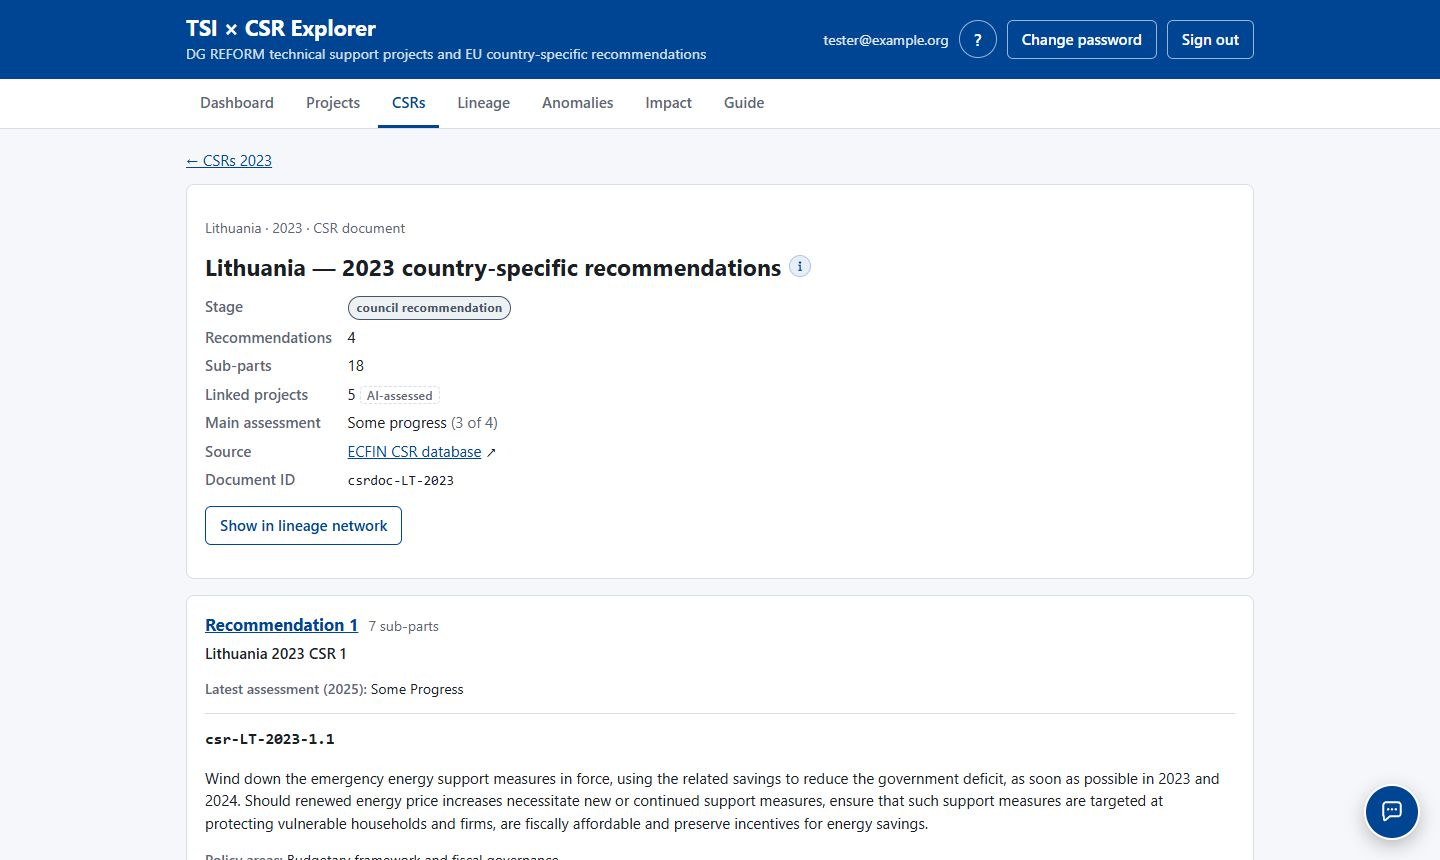
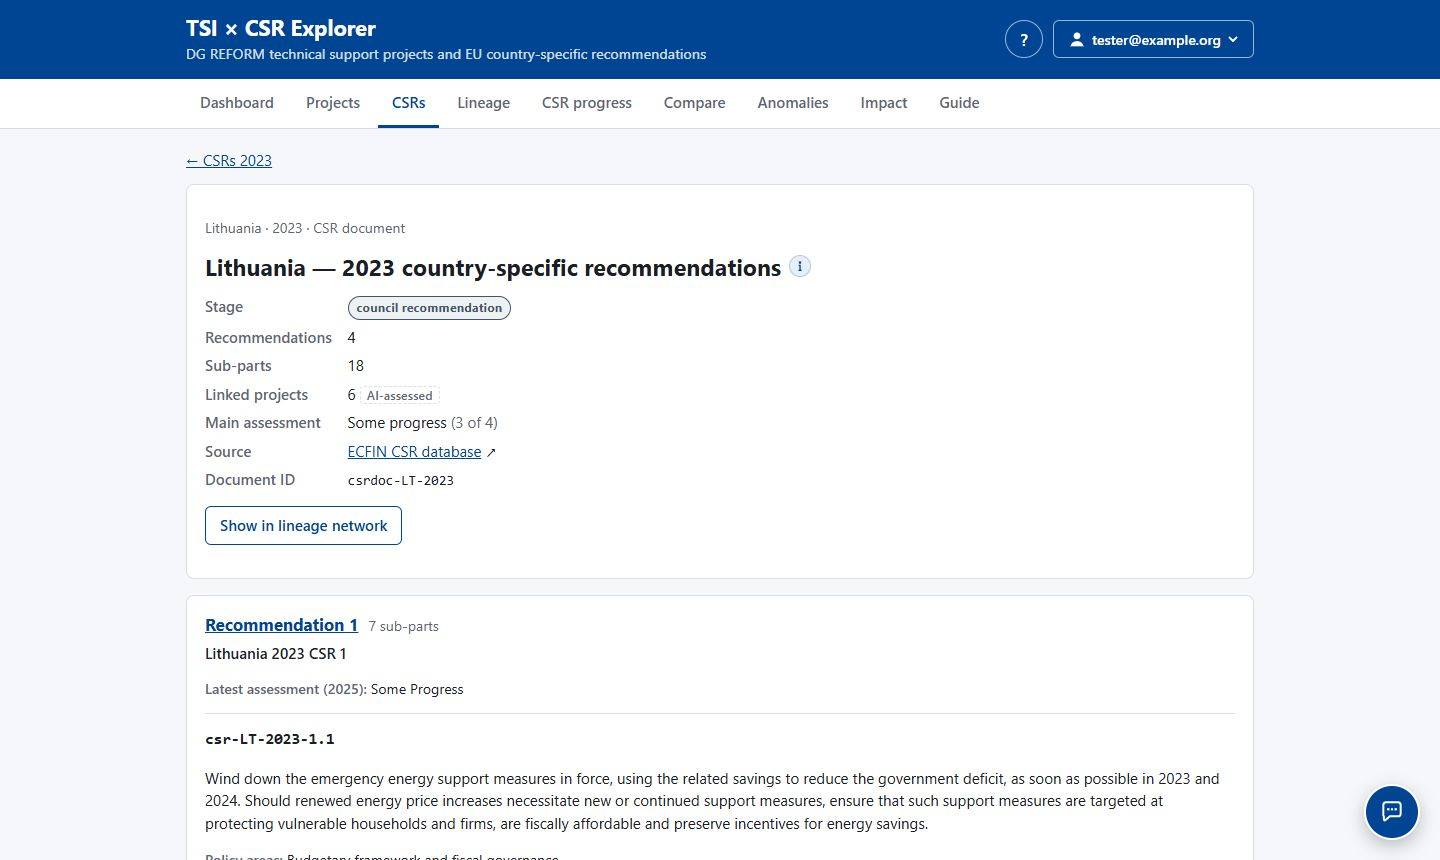
docs(web): captures du guide du 23/11/2026 (donnees du jour) et trois etapes (termes associes, considerants, country reports) ; extraits sans mots grammaticaux surlignes, badge AI en majuscules

diff --git a/web/app.js b/web/app.js
@@ -972,14 +972,20 @@ function escapeRegExp(s) {
   return s.replace(/[.*+?^${}()|[\]\\]/g, "\\$&");
 }
 
+const EXCERPT_STOP = new Set(["with", "from", "into", "that", "this", "their", "between", "within", "across", "through",
+  "under", "over", "about", "other", "more", "less", "also"]);
+
 /** Escaped excerpt of a recital around the first searched word, the searched words marked. */
 function recitalExcerpt(text, words) {
   const t = String(text || "");
-  const tokens = [...new Set(words.flatMap((w) => [w.trim(), ...w.split(/\s+/)]).map((w) => w.trim()).filter((w) => w.length >= 3))]
-    .sort((a, b) => b.length - a.length);
+  const phrases = [...new Set(words.map((w) => w.trim()).filter((w) => w.length >= 3))];
+  // Single words of the phrases, without short or grammatical words ("and", "of the" would be marked everywhere).
+  const parts = phrases.flatMap((w) => w.split(/\s+/)).filter((w) => w.length >= 4 && !EXCERPT_STOP.has(w.toLowerCase()));
+  const tokens = [...new Set([...phrases, ...parts])].sort((a, b) => b.length - a.length);
   const lower = t.toLowerCase();
-  const hits = tokens.map((w) => lower.indexOf(w.toLowerCase())).filter((i) => i >= 0);
-  const at = hits.length ? Math.min(...hits) : 0;
+  const first = (list) => { const hits = list.map((w) => lower.indexOf(w.toLowerCase())).filter((i) => i >= 0); return hits.length ? Math.min(...hits) : -1; };
+  const atPhrase = first(phrases);
+  const at = atPhrase >= 0 ? atPhrase : Math.max(0, first(parts)); // a whole searched phrase first, else one of its words
   const start = t.length <= RECITAL_EXCERPT ? 0 : Math.max(0, Math.min(at - 120, t.length - RECITAL_EXCERPT));
   const cut = t.slice(start, start + RECITAL_EXCERPT);
   let html = esc(cut);
@@ -3318,9 +3324,9 @@ const GUIDE = [
 const GUIDE_IDS = GUIDE.map((s) => s.id);
 
 // Illustrated part of the guide (screenshots in web/guide/, relative paths: the site is served under a sub-path).
-// Screenshots taken on 23 Oct 2026 with the real data of that day; the figures quoted in the steps are read off them.
+// Screenshots taken on 23 Nov 2026 with the real data of that day; the figures quoted in the steps are read off them.
 const GUIDE_PROJECT = "technical-support-transforming-existing-fully-state-administered-funded-pension-scheme-lithuania";
-const GUIDE_SHOT_DATE = "23 October 2026";
+const GUIDE_SHOT_DATE = "23 November 2026";
 const GUIDE_ESSENTIALS = [
   { icon: "▦", title: "Tabs", text: "Dashboard, Projects, CSRs, Lineage, CSR progress, Compare, Anomalies, Impact and Guide. The ? button in the header brings you back here; the menu under your e-mail address holds Change password, Sign out (and Admin for administrators)." },
   { icon: "⚲", title: "Filters", text: "Each list has its filters (country, programme, years, text search…). The address of the page keeps them: bookmark or share it." },
@@ -3334,37 +3340,40 @@ const GUIDE_ESSENTIALS = [
 const LT_PROJECT_SEL = `sel=${encodeURIComponent(`project:${GUIDE_PROJECT}`)}`;
 const GUIDE_STEPS = [
   { img: "01-dashboard.jpg", to: "#dashboard", title: "Start from the big picture",
-    alt: "Dashboard: tiles with the totals and the chart of projects by year and programme",
-    text: `The <strong>Dashboard</strong> sums up the whole data set: 2,157 projects (39% with a detail page), 536 deliverables,
-      27 CSR documents per year (294 documents, 1,049 recommendations and 3,363 sub-parts for 2016–2026), 1,339 project–CSR links
-      (28% of projects linked), 5 impact analyses (mean score 4.2/10) and 1,884 anomalies, 262 of them high severity. The first
-      chart splits the projects by year and programme: TSI 1,185, SRSP 890, SRSS 82. Click a bar to open the matching list.` },
+    alt: "Dashboard: what the explorer is for, the four ways in, and the tiles with the totals",
+    text: `The <strong>Dashboard</strong> opens with what the explorer is for, a reminder that it is an internal tool, and four ways
+      in: one country, a theme across countries, CSR implementation, finding projects. The tiles sum up the data set: 2,155
+      projects (39% with a detail page), 536 deliverables, 27 CSR documents per year (294 documents, 1,049 recommendations and
+      3,363 sub-parts for 2016–2026), 1,441 project–CSR links (28% of projects linked), 743 impact analyses (indicative, mean score
+      5.1/10) and 1,879 anomalies, 262 of them high severity. The charts below split the projects by year and programme (TSI 1,183,
+      SRSP 890, SRSS 82); click a bar to open the matching list.` },
   { img: "02-csrs.jpg", to: "#csrs", title: "Browse the CSR documents of a year",
     alt: "CSRs tab: the 27 country documents of 2026 as cards",
     text: `The <strong>CSRs</strong> tab opens on the latest year: 2026, 27 documents, 146 recommendations. They are still
       <em>Commission recommendations</em>: not yet adopted by the Council, not yet assessed, and no project is linked yet (a
       recommendation can only be supported by projects of the following years). Each card gives the number of recommendations,
       the main assessment and the linked projects, with links to the document page and its PDF. Choose an earlier year to see
-      assessments and links.` },
+      assessments and links. The buttons above the cards switch to all recommendations, the 2026 recitals and the 2026 country
+      reports (steps 13 and 14).` },
   { img: "03-document.jpg", to: "#csrdoc/csrdoc-LT-2023", title: "Open a country's CSR document",
     alt: "CSR document page: Lithuania, 2023 country-specific recommendations",
     text: `The <strong>Lithuania — 2023</strong> document is a Council recommendation with 4 recommendations split into 18
-      sub-parts. 5 projects are linked to it (AI-assessed) and its main assessment is <em>Some progress</em> (3 of 4
+      sub-parts. 6 projects are linked to it (AI-assessed) and its main assessment is <em>Some progress</em> (3 of 4
       recommendations). Below, each recommendation lists its sub-parts with their policy areas, assessment and linked projects:
       sub-part 1.6, &ldquo;social protection&rdquo;, is partially supported by the Lithuanian pension project followed in the
       next steps.` },
   { img: "04-lineage-sankey.jpg", to: "#lineage", title: "See where support goes, for all countries",
     alt: "Lineage tab, Sankey view: countries, policy areas, programmes and outcomes of all CSR Recommendations",
-    text: `The <strong>Lineage</strong> tab opens on the <em>Sankey</em>: for the CSRs of 2016–2025, 1,185 CSR
-      Recommendations (391 distinct recommendations, 597 projects, 27 countries, 34% direct) flow from the country of the recommendation to the policy
-      area of the project, its programme and its stated outcome. Croatia comes first with 90 CSR Recommendations, Romania 84, Spain 82, and
-      Lithuania 64; TSI carries 948 CSR Recommendations and 954 lead to results achieved. The CSR years and the link level (all, direct, partial)
+    text: `The <strong>Lineage</strong> tab opens on the <em>Sankey</em>: for the CSRs of 2016–2025, 1,284 CSR
+      Recommendations (439 distinct recommendations, 602 projects, 27 countries, 34% direct) flow from the country of the recommendation to the policy
+      area of the project, its programme and its stated outcome. Croatia comes first with 94 CSR Recommendations, Spain 90, Romania 87, and
+      Lithuania 68; TSI carries 1,040 CSR Recommendations and 977 lead to results achieved. The CSR years and the link level (all, direct, partial)
       filter the Sankey, the Network and the Sunburst alike; click a country to split it by CSR year.` },
   { img: "04-lineage.jpg", to: `#lineage?view=country&country=LT&${LT_PROJECT_SEL}`, title: "Follow one country stage by stage",
     alt: "Lineage By country, Lithuania, with the pension project pinned: its chain from two documents to its outcome is highlighted",
     text: `<em>By country</em> follows the five stages for one country: CSR document → recommendation → initial request (a dashed
-      placeholder until the JIRA export) → project → outcome. Lithuania, 2019–2025: 7 CSR documents, 25 recommendations (10 with
-      at least one project), 35 CSR Recommendations (11 direct) from 44 sub-part links and 23 projects. With the pension
+      placeholder until the JIRA export) → project → outcome. Lithuania, 2019–2025: 7 CSR documents, 25 recommendations (11 with
+      at least one project), 39 CSR Recommendations (11 direct) from 48 sub-part links and 25 projects. With the pension
       project pinned, its chain lights up: a solid line (direct) to LT 2021 · CSR 1, a dashed line (partial) to LT 2023 · CSR 1,
       and in the <em>Outcome</em> column: results achieved, 1 deliverable and the pill <em>2/10</em>, its latest impact score.` },
   { img: "05-project.jpg", to: `#project/${GUIDE_PROJECT}`, title: "Read the project page",
@@ -3378,7 +3387,7 @@ const GUIDE_STEPS = [
     text: `<em>Review</em>, next to each link, opens a short form: the link of the pension project to csr-LT-2021-1.4 is
       <em>Not reviewed</em> yet. Choose Confirmed, Rejected or To review, add a comment if useful and save: the status is shared with
       all users at once, and the history (who, when, why) stays in the form. <em>Links to review</em>, on the Projects tab, lists all
-      the links still to check; on the day of the screenshots none of the 1,339 links had been reviewed.` },
+      the links still to check; on the day of the screenshots none of the 1,441 links had been reviewed.` },
   { img: "06-impact.jpg", to: `#impact/${GUIDE_PROJECT}`, title: "Check the impact analysis",
     alt: "Impact tab: the saved analysis of the Lithuanian pension project, report open",
     text: `<em>Impact analysis</em> opens the project in the <strong>Impact</strong> tab. Its saved analysis (2/10, weak,
@@ -3401,13 +3410,32 @@ const GUIDE_STEPS = [
     alt: "Assistant drawer open beside the project page, with the question about this project pre-filled",
     text: `The round button at the bottom right opens the <strong>assistant</strong> beside the page. On a project page,
       <em>Ask about this project</em> pre-fills the question; you still press <em>Send</em>. Examples get you started, and the
-      conversation can be exported to Word. Answers use the project records, summaries, CSRs and links (not the deliverable
-      full texts) and are generated by AI: verify the cited sources.` },
+      conversation can be exported to Word. Answers use the project records, summaries, CSRs and links, and the 2026 recitals and
+      country reports (not the deliverable full texts); they are generated by AI: verify the cited sources.` },
+  { img: "11-projects-search.jpg", to: "#projects?q=wildfire", title: "Search projects, with related terms",
+    alt: "Projects tab searched for wildfire: related terms suggested by AI, eight projects, policy areas marked AI",
+    text: `A search on the <strong>Projects</strong> tab also looks for related terms suggested by AI, listed under the filters:
+      <em>wildfire</em> also finds <em>rural fires</em> and <em>forest fires</em>, 8 projects in all (the suggestions can vary from
+      one search to the next). <em>Search the exact words only</em> turns them off. Multi-country projects carry a badge with
+      their number of countries, and a policy area marked <span class="badge badge-ai">AI</span> was assigned by AI from the title
+      of a project without a detail page (1,320 projects): indicative.` },
+  { img: "12-recitals.jpg", to: "#csrs?view=recitals&q=wildfire", title: "Find a topic in the 2026 recitals",
+    alt: "CSRs tab, Recitals 2026 view, searched for wildfire: six recitals of Cyprus, Spain and other countries",
+    text: `The <strong>recitals</strong> are the numbered paragraphs that precede the recommendations in each 2026 document: the
+      Commission's analysis of the country's challenges (1,055 for the 27 countries). They cover topics that the recommendations only
+      mention briefly: no 2026 recommendation mentions wildfires, but 6 recitals do, with the related terms, starting with Cyprus (28)
+      and Spain (29). Each row shows the matching passage, with the searched words marked, and links to the document and its PDF.` },
+  { img: "13-country-reports.jpg", to: "#csrs?view=reports&q=water%20management&country=PT", title: "Dig into the 2026 country reports",
+    alt: "CSRs tab, Country reports 2026 view, searched for water management in Portugal: passages with their page",
+    text: `The <strong>country reports</strong> (about 100 pages per Member State) develop that analysis in detail. Searched for
+      <em>water management</em> in Portugal, they give 24 passages, each with a link to its page in the PDF (p. 4, p. 10, p. 15…).
+      Without a search, the view lists the 27 reports. For a question across several countries, ask the assistant: it searches
+      the reports country by country and cites the pages.` },
 ];
 const GUIDE_CASES = [
-  { title: "Direct links only", text: "The Sankey with the direct CSR Recommendations only: 399 CSR Recommendations, 227 recommendations and 282 projects.", to: "#lineage?view=sankey&level=direct", cta: "Open the Sankey" },
-  { title: "Croatia, stage by stage", text: "One of the densest countries: 73 CSR Recommendations from 78 sub-part links (2019–2025), 35 projects.", to: "#lineage?view=country&country=HR", cta: "Open By country" },
-  { title: "Best-covered country", text: "Belgium has the highest share of recommendations supported by a project: 65% (22 of 34).", to: "#lineage?view=country&country=BE", cta: "See Belgium" },
+  { title: "Direct links only", text: "The Sankey with the direct CSR Recommendations only: 433 CSR Recommendations, 237 recommendations and 284 projects.", to: "#lineage?view=sankey&level=direct", cta: "Open the Sankey" },
+  { title: "Croatia, stage by stage", text: "One of the densest countries: 77 CSR Recommendations from 82 sub-part links (2019–2025), 38 projects.", to: "#lineage?view=country&country=HR", cta: "Open By country" },
+  { title: "A well-covered country", text: "Belgium, 2019–2025: 14 of its 25 recommendations are supported by at least one project, 35 projects in all.", to: "#lineage?view=country&country=BE", cta: "See Belgium" },
   { title: "Projects that bridge countries", text: "The Network shows the projects linked to recommendations of several countries.", to: "#lineage?view=network", cta: "Open the Network" },
   { title: "Highest impact score", text: "Barnahus Slovenia (SRSP 2019), support for children victims of violence: 8/10, strong.", to: "#impact/barnahus-slovenia-supporting-children-victims-violence", cta: "Read the analysis" },
   { title: "A multi-country project", text: "Inclusive education in Portugal, Italy and Spain: one project linked to four CSR sub-parts of three countries.", to: "#project/combatting-disparities-access-inclusive-education-portugal-italy-and-spain", cta: "Open the project" },
@@ -3428,7 +3456,7 @@ const GUIDE_TIPS = [
   "The 2026 recommendations are Commission proposals: not yet assessed and not yet linked to projects; related past projects suggested by AI are leads, not links.",
   "Projects known only by their title are not linked yet: no link does not mean no support.",
   "Your reviews are shared with all users at once: add a short comment when you reject a link.",
-  "Impact statistics rest on the analyses run so far (5 in October 2026): indicative only.",
+  "Impact analyses are generated by AI (743 in November 2026): indicative only.",
   "Anomalies are deterministic checks of the publication, not judgements on the projects.",
   "To improve the explorer, the pages you open and the time spent on them are recorded with your e-mail address; only administrators can see them.",
   "The data are updated every month: the figures in the screenshots may have changed since.",

diff --git a/web/style.css b/web/style.css
@@ -950,7 +950,7 @@ details.dash-fold[open] > summary h3::before { content: "▾ "; }
 .badge-multi { background: var(--accent-soft); color: var(--accent); border: 1px solid color-mix(in oklab, var(--accent) 35%, transparent); white-space: nowrap; }
 
 /* AI-assigned policy areas and AI-suggested related search terms (user feedback, lot 2) */
-.badge-ai { font-size: 0.7rem; padding: 1px 5px; border-radius: 3px; border: 1px solid var(--accent); color: var(--accent); background: transparent; font-weight: 600; letter-spacing: 0.02em; vertical-align: 1px; }
+.badge-ai { font-size: 0.7rem; padding: 1px 5px; border-radius: 3px; border: 1px solid var(--accent); color: var(--accent); background: transparent; font-weight: 600; letter-spacing: 0.02em; vertical-align: 1px; text-transform: none; }
 .related-notice { margin: -4px 0 12px; }
 .related-term { font-style: italic; }
 
